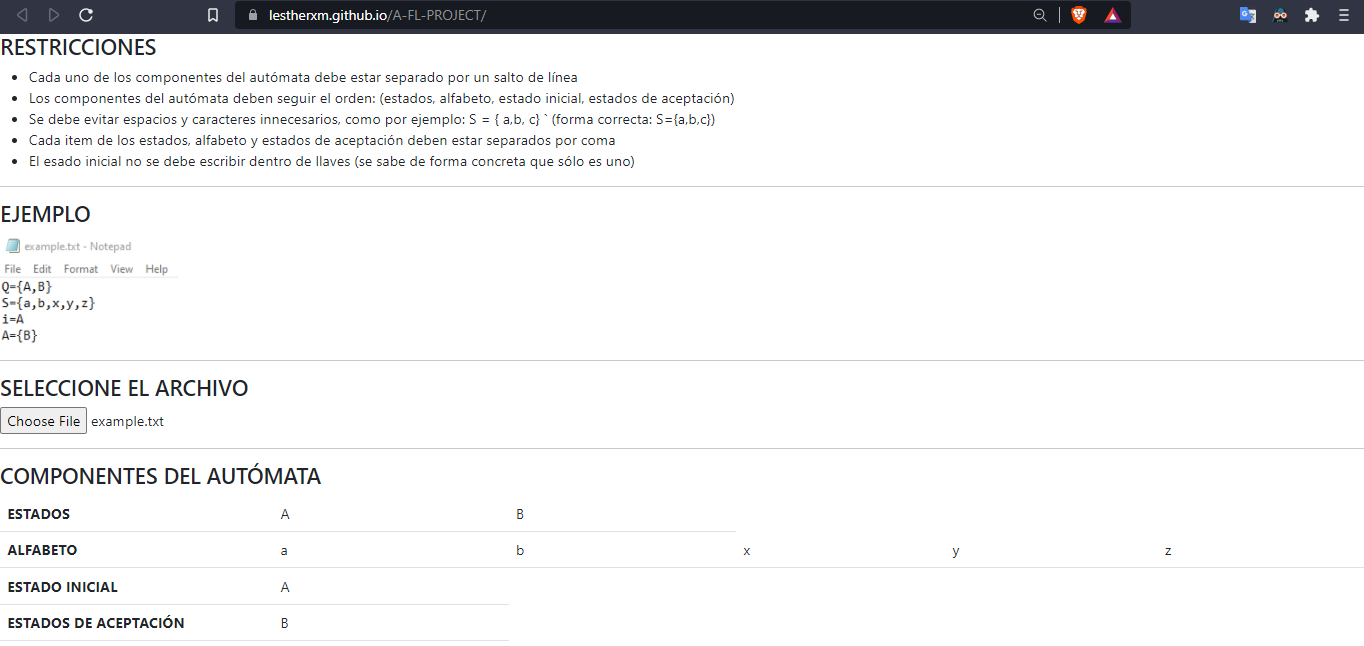
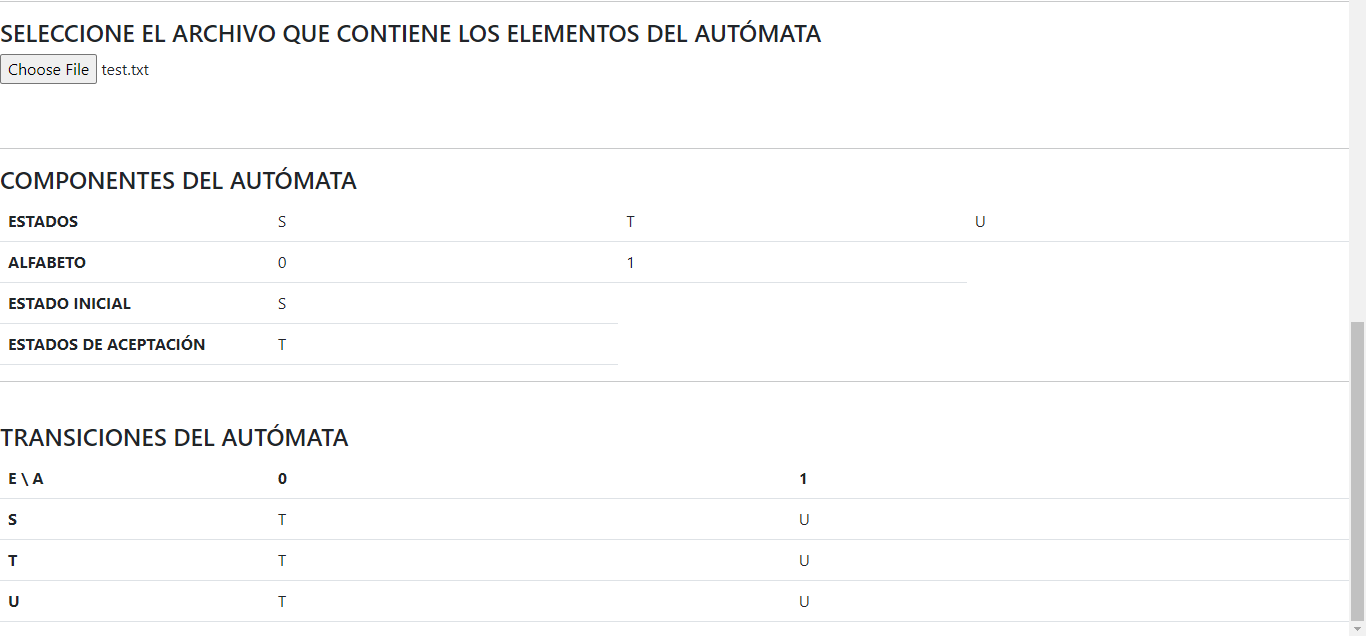
modificando readme y restricciones

diff --git a/index.html b/index.html
@@ -10,14 +10,31 @@
 </head>
 <body>
      <div class="instructions">
-         <h4>RESTRICCIONES</h4>
-         <ul>
-             <li>Cada uno de los componentes del autómata debe estar separado por un salto de línea</li>
-             <li>Los componentes del autómata deben seguir el orden: (estados, alfabeto, estado inicial, estados de aceptación)</li>
-             <li>Se debe evitar espacios y caracteres innecesarios, como por ejemplo:  S   = { a,b,  c} `  (forma correcta: S={a,b,c})</li>
-             <li>Cada item de los estados, alfabeto y estados de aceptación deben estar separados por coma</li>
-             <li>El esado inicial no se debe escribir dentro de llaves (se sabe de forma concreta que sólo es uno)</li>
-        </ul>
+         <h4>RESTRICCIONES PARA EL ARCHIVO DE TEXTO</h4>
+         <p>Este software funcionará correctamente sólo si se cumplen las siguientes restricciones:</p>
+         <ol>
+             <li>
+                <h6>COMPONENTES</h6>
+                <ul>
+                    <li>Cada uno de los componentes del autómata debe estar separado por un salto de línea</li>
+                    <li>Los componentes del autómata deben seguir el orden: (estados, alfabeto, estado inicial, estados de aceptación)</li>
+                    <li>Se debe evitar espacios y caracteres innecesarios, como por ejemplo:  S   = { a,b,  c} `  (forma correcta: S={a,b,c})</li>
+                    <li>Cada item de los estados, alfabeto y estados de aceptación deben estar separados por coma</li>
+                    <li>El esado inicial no se debe escribir dentro de llaves (se sabe de forma concreta que sólo es uno)</li>
+               </ul>
+             </li>
+             <li>
+                <h6>TRANSICIONES</h6>
+                <ul>
+                    <li>Se debe colocar el símbolo "$" en una nueva sola línea para indicar el inicio y fin de las transiciones</li>
+                    <li>Para los N estados del autómata se debe indicar las N transiciones por los N símbolos del alfabeto</li>
+                    <li>En caso de que X estado no cuente con una transición específica para X símbolo del alfabeto, se debe colocar un guión</li>
+                    <li>Cada transición está compuesta por un estado de partida, el símbolo que hace la transición y un estado de destino</li>
+                    <li>Los componentes de cada una de las transiciones deben de estar separadas por punto y coma</li>
+                    <li>Cada transición debe escribirse en una sóla línea, no es válido  escribir más de una transición en la misma línea</li>
+                </ul>
+             </li>
+         </ol>
         <hr>
         <h4>EJEMPLO</h4>
         <img src="./assets/img/fileExample.png" alt="Ejemplo: esctructura del archivo" title="Ejemplo: esctructura del archivo">
@@ -31,6 +48,7 @@
                      <input type="file" name="files" id="files" accept=".txt">
                 </form>
          </section>
+         <br><br>
          <section id="dataZone">
          </section>
      </div>

diff --git a/README.md b/README.md
@@ -6,8 +6,9 @@ Proyecto de autómatas y lenguajes formales, sexto ciclo de ingeniería en siste
 * 2490-19-778
 
 # ESPECIFICACIONES DEL SOFTWARE
-"Dinaic Simple Web Page" que tiene como fin leer un archivo de texto con una estructura determinada y finalmente presentarselo al usuario. El contenido del archivo de texto 
-representa un autómata, por lo cual, los datos son presentados de forma separada con en base a cada uno de sus componentes.
+La finalidad de esta aplicación web es leer los datos de un archivo de texto con una estructura determinada y finalmente presentarselo al usuario. El contenido del archivo de texto 
+representa un autómata; por lo cual, los datos son presentados en dos tablas, una para sus mostrar sus componentes
+y otra para sus transiciones.
 
-# EJEMPLO - FASE 1
-![EJEMPLO FASE 1](https://raw.githubusercontent.com/lestherxm/A-FL-PROJECT/main/assets/img/step1-readmeExample.png)
+# EJEMPLO LECTURA DEL ARCHIVO
+# ![EJEMPLO LECTURA DEL ARCHIVO](https://raw.githubusercontent.com/lestherxm/A-FL-PROJECT/main/assets/img/step1-readmeExample.png)
